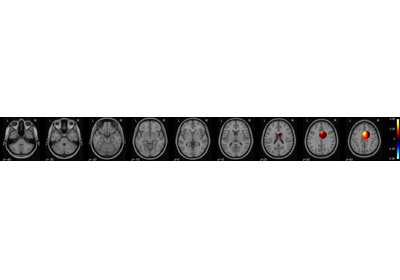
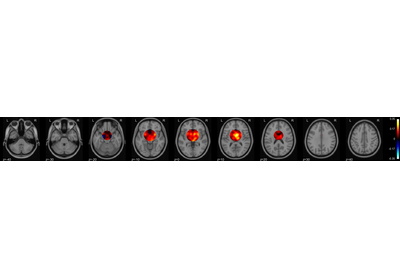
updated rtd conda env
Former-commit-id: 1421ad133580cba7f7ae8d5537537105dfaf9d38

diff --git a/nltools/data.py b/nltools/data.py
@@ -44,20 +44,11 @@ import warnings
 import shutil
 import tempfile
 import seaborn as sns
+from pynv import Client
 
 # Optional dependencies
 try:
     from mne.stats import spatio_temporal_cluster_1samp_test, ttest_1samp_no_p
-except ImportError:
-    pass
-
-try:
-    from pyneurovault_upload import Client
-except ImportError:
-    pass
-
-try:
-    import requests
 except ImportError:
     pass
 

diff --git a/docs/auto_examples/01_DataOperations/plot_mask.py b/docs/auto_examples/01_DataOperations/plot_mask.py
@@ -24,7 +24,7 @@ data = fetch_pain()
 
 from nltools.mask import create_sphere
 
-mask = create_sphere([41, 64, 55], radius=10)
+mask = create_sphere([0, 0, 0], radius=30)
 masked_data = data.apply_mask(mask)
 masked_data.mean().plot()
 

diff --git a/docs/auto_examples/01_DataOperations/plot_mask.rst b/docs/auto_examples/01_DataOperations/plot_mask.rst
@@ -42,7 +42,7 @@ It requires specifying a center voxel and the radius of the sphere.
 
     from nltools.mask import create_sphere
 
-    mask = create_sphere([41, 64, 55], radius=10)
+    mask = create_sphere([0, 0, 0], radius=30)
     masked_data = data.apply_mask(mask)
     masked_data.mean().plot()
 
@@ -260,7 +260,7 @@ We might also want to create separate images from each contiguous ROI.
 
 
 
-**Total running time of the script:** ( 0 minutes  49.105 seconds)
+**Total running time of the script:** ( 0 minutes  45.594 seconds)
 
 
 